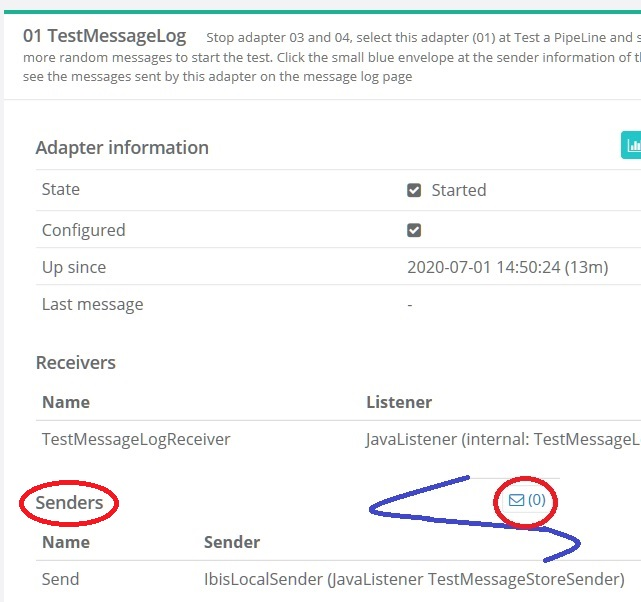
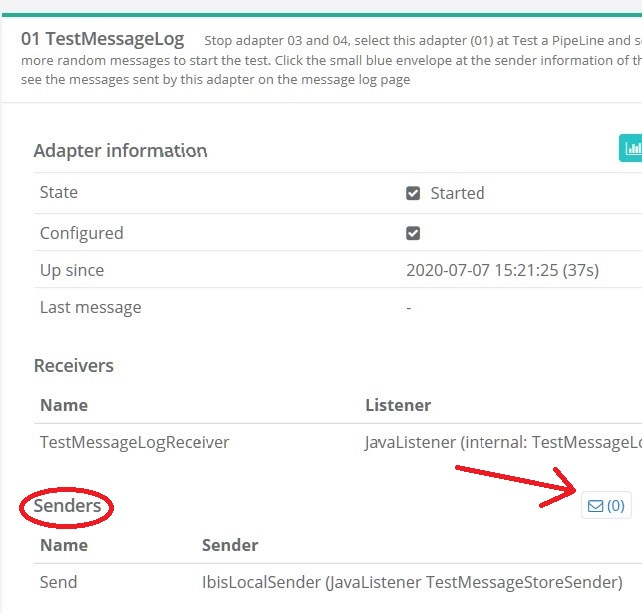
Improve image figure message log step 6

diff --git a/docs/source/operator/messageLog.rst b/docs/source/operator/messageLog.rst
@@ -26,7 +26,7 @@ You as a site owner get the option to browse the stored messages. In this sectio
 
    .. image:: managingProcessedMessagesTheExampleAdapters.jpg
 
-#. Expand adapter "TestMessageLog" again, see below. You see a heading "Senders" and below it the sender named "TestMessageStoreSender". Next to this, you see an envelope. As indicated by the blue line, the envelope appears to the far right of the screen; in reality, the ends of the blue line are at the same height.
+#. Expand adapter "TestMessageLog" again, see below. You see a heading "Senders" and below it the sender named "TestMessageStoreSender". Next to this, you see an envelope. As indicated by the red arrow (imagine it is a cue that pushes the envelope), the envelope appears to the far right of the screen.
 
    .. image:: managingProcessedMessageMessageLogEnvelope.jpg
 
